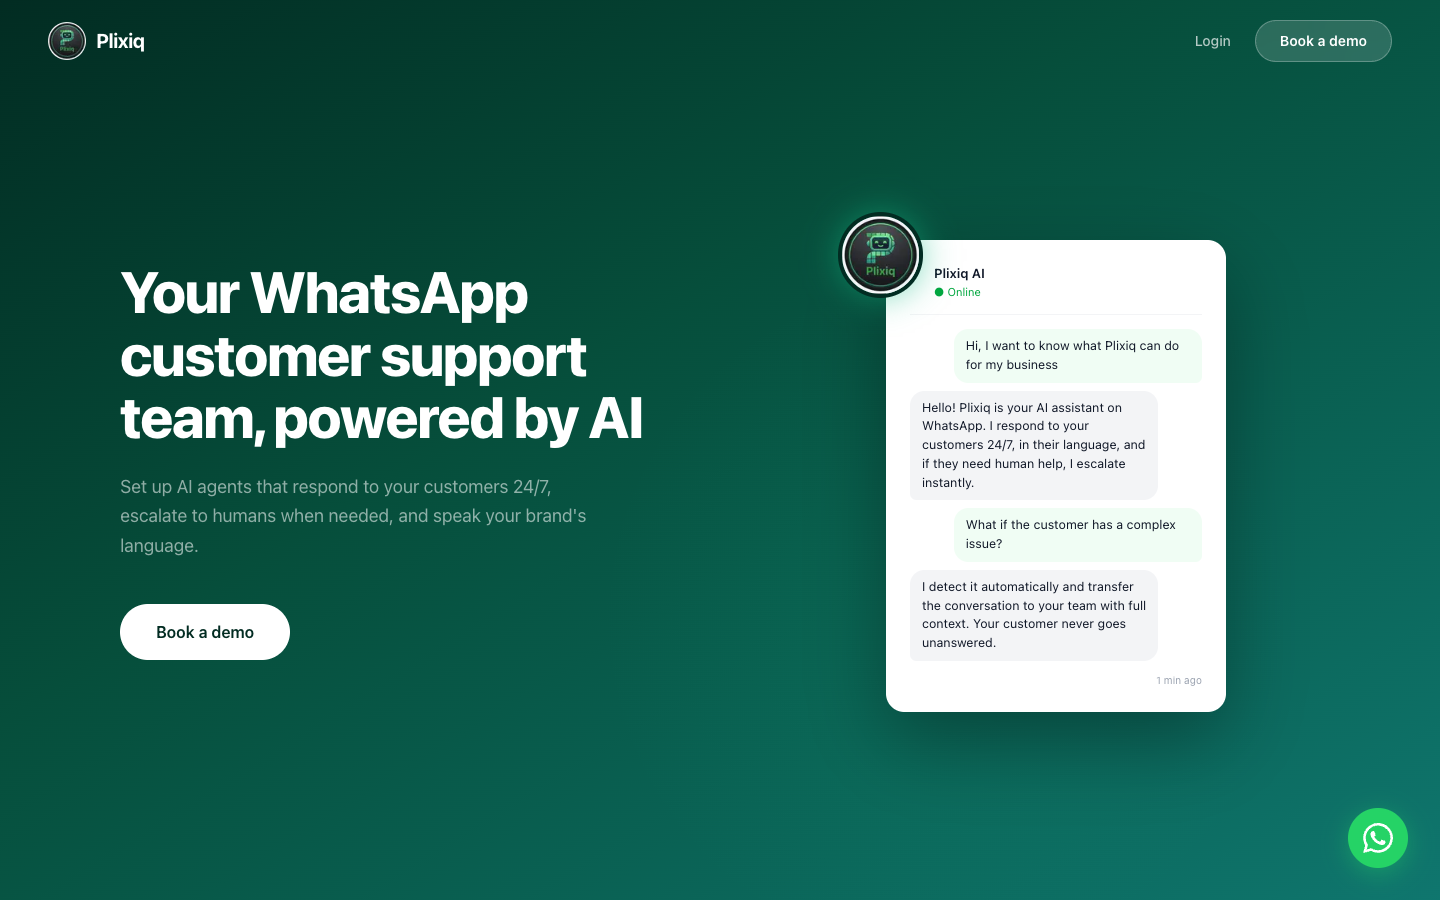
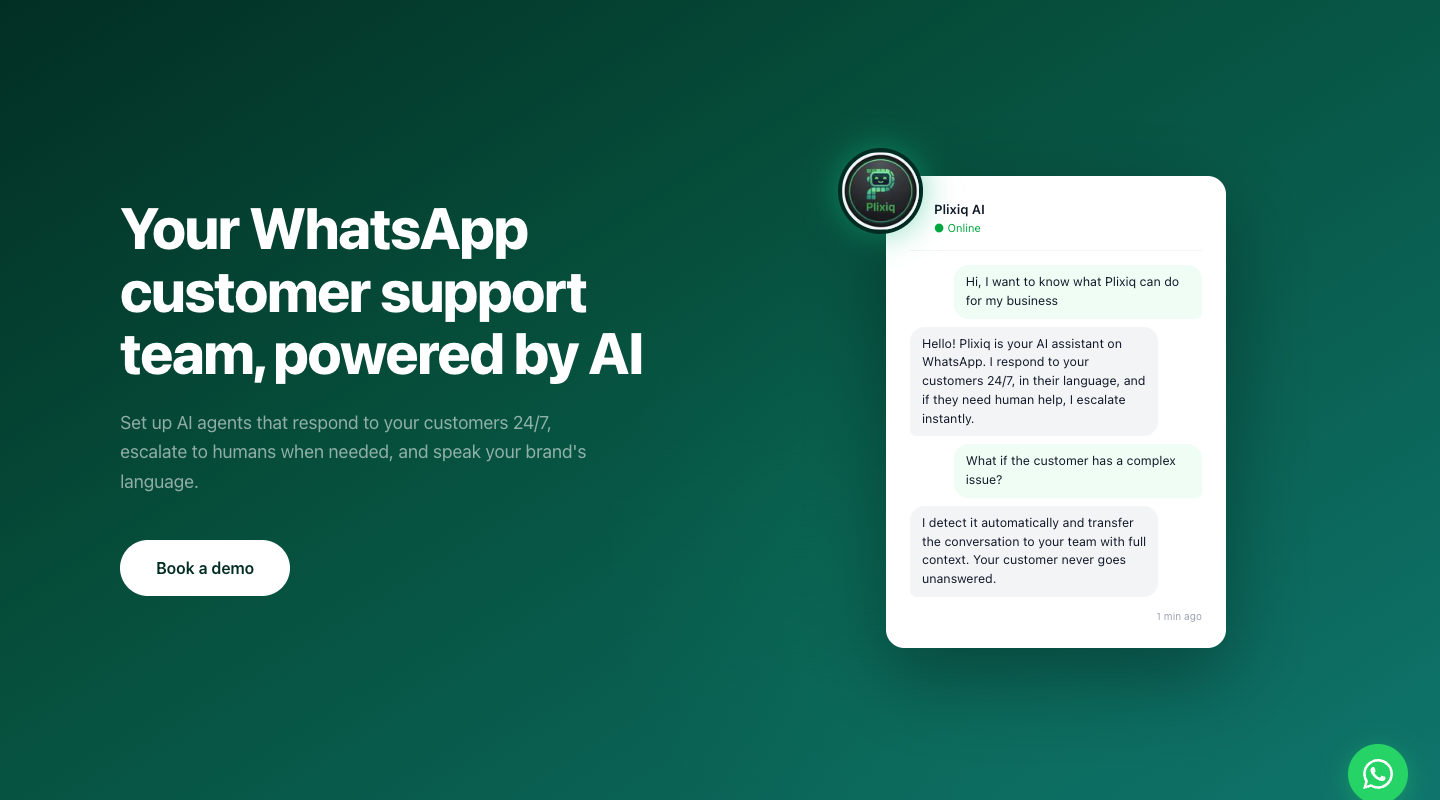
fix(blog): Plixiq cover crop + featured 16/9 + styled MDX tables (#31)
* fix(plixiq): crop cover image and widen featured cover so it isn't cut off

The Plixiq cover was a full browser screenshot whose top nav bar ("Login / Book
a demo") got sliced in half when cropped into the project card and post header.
Crop the cover to just the hero band (drop the nav and the empty space below),
and switch the featured blog cover from 4/3 to 16/9 (matching post-card and
rel-card) so the wide hero shows in full instead of clipping the headline.

* fix(blog): style MDX tables (they rendered unstyled)

Markdown tables in posts had no styling — no borders, header, or padding — so
the cost table in the Plixiq case study looked broken. Add a bordered, rounded
table treatment matching the StackList component (eyebrow header row, row
separators, emphasized first column, hover, dark mode). TableWrapper now adds a
`table-wrap` class to hook the styles.

diff --git a/styles/pages.css b/styles/pages.css
@@ -227,7 +227,7 @@
     display: grid; grid-template-columns: 1.2fr 1fr; gap: 40px;
     padding: 48px 0; margin-bottom: 48px;
   }
-  .featured .cover { aspect-ratio: 4/3; border-radius: 20px; overflow: hidden; }
+  .featured .cover { aspect-ratio: 16/9; border-radius: 20px; overflow: hidden; }
   .featured .cover .ph { width: 100%; height: 100%; font-size: 14px; }
   .featured .meta-row { display: flex; gap: 12px; align-items: center; font-family: var(--f-ubuntu); font-size: 12px; color: var(--s-500); text-transform: uppercase; letter-spacing: 0.1em; margin-bottom: 16px; }
   html.dark .featured .meta-row { color: var(--s-400); }
@@ -412,6 +412,18 @@
   .post-body pre .k { color: #c084fc; } .post-body pre .s { color: #86efac; } .post-body pre .c { color: #64748b; font-style: italic; } .post-body pre .n { color: #fbbf24; } .post-body pre .f { color: #60a5fa; }
   .post-body code { font-family: ui-monospace, Menlo, Consolas, monospace; font-size: .9em; padding: 2px 6px; border-radius: 4px; background: var(--g-100); }
   html.dark .post-body code { background: var(--g-200); }
+
+  /* ---- Tables (MDX <TableWrapper />) ---- */
+  .post-body .table-wrap { margin: 28px 0; border: 1px solid var(--g-200); border-radius: 14px; overflow-x: auto; background: color-mix(in oklab, var(--g-50) 60%, transparent); }
+  html.dark .post-body .table-wrap { border-color: var(--g-300); background: color-mix(in oklab, var(--g-100) 50%, transparent); }
+  .post-body .table-wrap table { width: 100%; border-collapse: collapse; margin: 0; font-size: 15px; line-height: 1.55; }
+  .post-body .table-wrap th { text-align: left; font-family: var(--f-ubuntu); font-size: 11.5px; text-transform: uppercase; letter-spacing: 0.07em; color: var(--g-500); font-weight: 700; padding: 13px 18px; border-bottom: 1px solid var(--g-200); white-space: nowrap; }
+  html.dark .post-body .table-wrap th { border-bottom-color: var(--g-300); }
+  .post-body .table-wrap td { padding: 13px 18px; border-bottom: 1px solid var(--g-200); color: var(--g-600); vertical-align: top; }
+  html.dark .post-body .table-wrap td { border-bottom-color: var(--g-200); }
+  .post-body .table-wrap tbody tr:last-child td { border-bottom: none; }
+  .post-body .table-wrap tbody td:first-child { color: var(--fg); font-weight: 600; }
+  .post-body .table-wrap tbody tr:hover td { background: color-mix(in oklab, var(--g-100) 55%, transparent); }
 
   /* ---- StackList: tech / decision rows (MDX <StackList />) ---- */
   .stack-group { margin: 28px 0 32px; }

diff --git a/src/shared/mdx/components/TableWrapper.tsx b/src/shared/mdx/components/TableWrapper.tsx
@@ -6,7 +6,7 @@ interface TableWrapperProps {
 
 const TableWrapper = ({ children }: TableWrapperProps) => {
   return (
-    <div className="w-full overflow-x-auto">
+    <div className="table-wrap w-full overflow-x-auto">
       <table>{children}</table>
     </div>
   )
